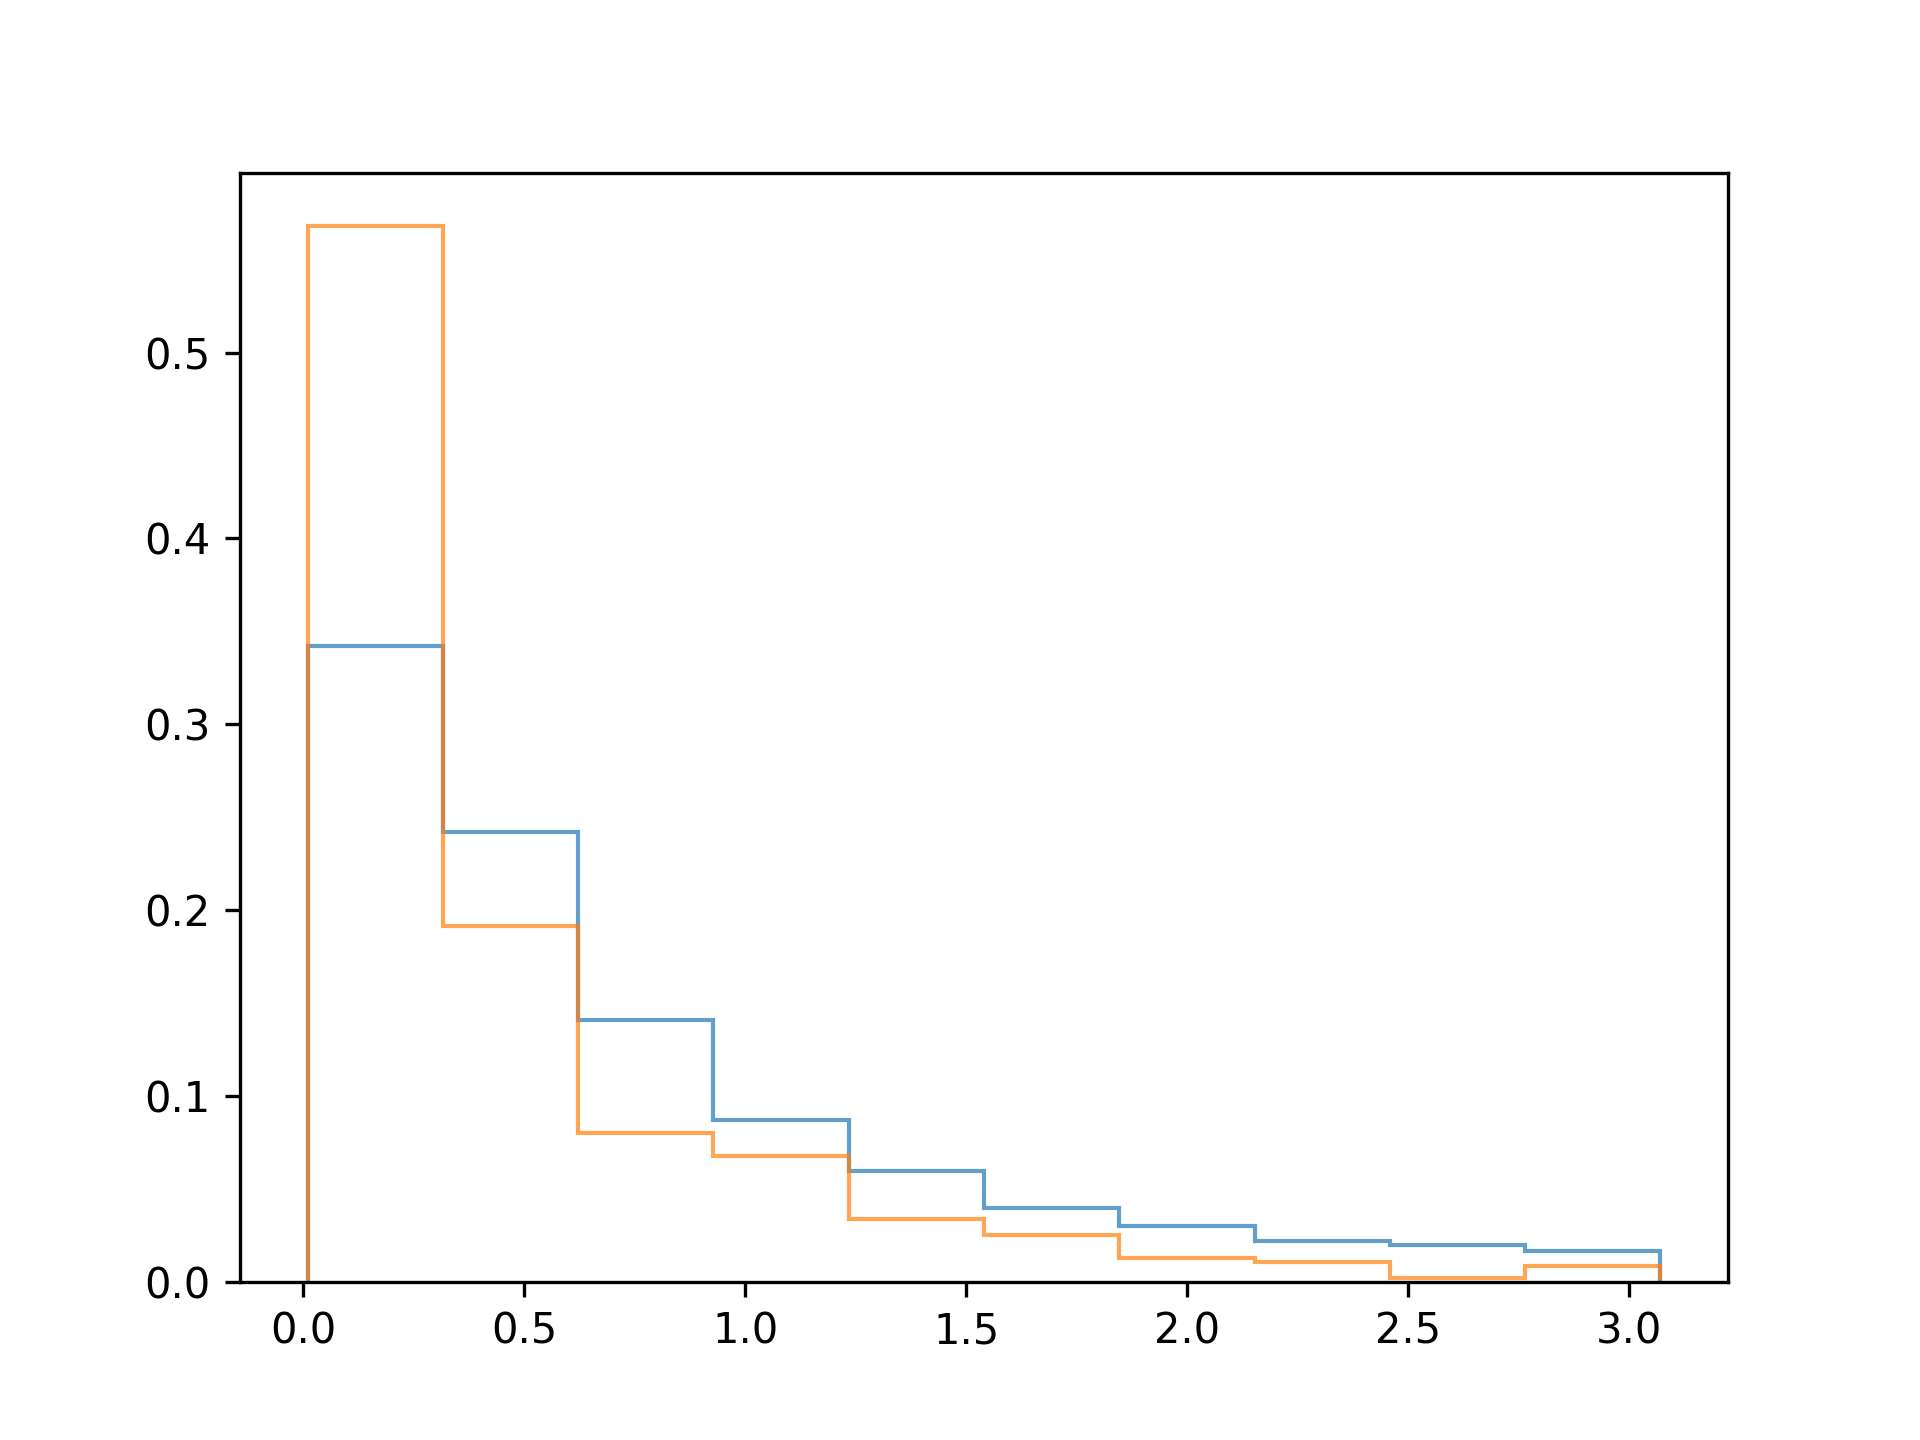
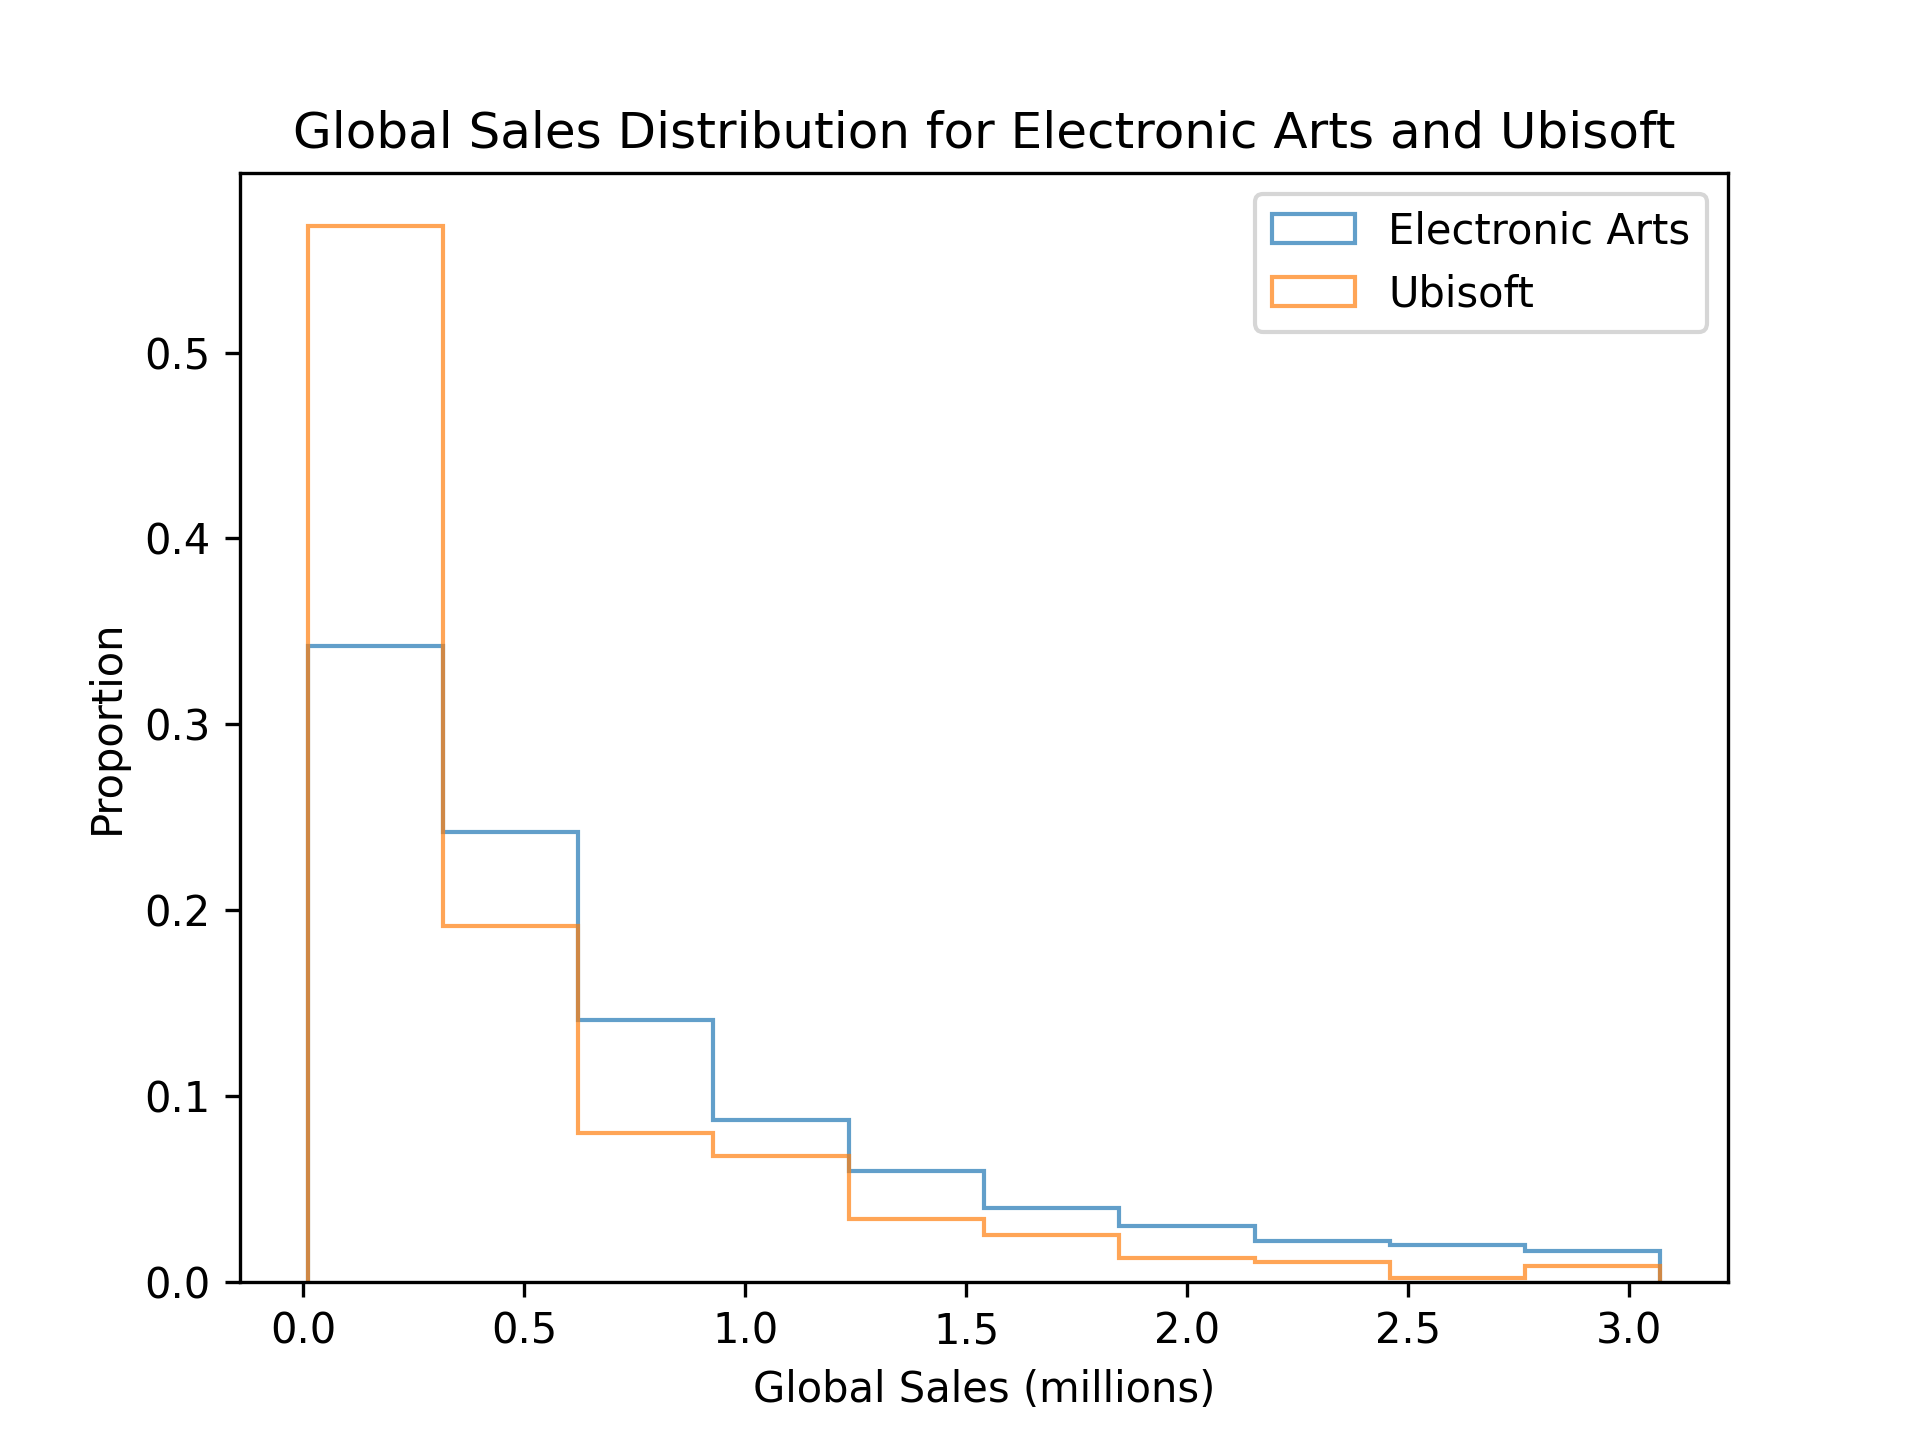
fix: change hidden functions to a more general one add: axis names, plot title, legend add: tests for new plot elements

Changed region(s): [[0.1562, 0.0625, 0.875, 0.2188], [0.4062, 0.9375, 0.625, 0.9688], [0.0312, 0.4375, 0.0625, 0.5938]]

diff --git a/3_2_histograms_matplotlib/1_theory/8_hist_histtype/tests/test_task.py b/3_2_histograms_matplotlib/1_theory/8_hist_histtype/tests/test_task.py
@@ -5,13 +5,13 @@ import matplotlib.pyplot as plt
 import numpy as np
 import pandas as pd
 
-from test_framework import AxisTestMixin, HistTestMixin
+from test_framework import AxisTestMixin, HistTestMixin, LegendTestMixin, TitleTestMixin
 
-from data import filter_by_publisher_and_global_sales, get_max_sales, get_min_sales, preprocess, read
+from data import filter_by_publisher_and_global_sales, get_bins, preprocess, read
 from task import plot
 
 
-class PlotTestCase(HistTestMixin, AxisTestMixin):
+class PlotTestCase(HistTestMixin, AxisTestMixin, LegendTestMixin, TitleTestMixin):
     data: ClassVar[pd.DataFrame]
     fig: ClassVar[plt.Figure]
     bins: ClassVar[np.ndarray]
@@ -24,8 +24,7 @@ class PlotTestCase(HistTestMixin, AxisTestMixin):
         cls.data = data
         cls.fig = plot(data)
         cls.publishers = ["Electronic Arts", "Ubisoft"]
-        min_value, max_value = get_min_sales(data), get_max_sales(data)
-        cls.bins = np.linspace(min_value, max_value, num=11)
+        cls.bins = get_bins(data)
 
     def test_1_1_return_type(self):
         self.checkReturnType(self.fig, expected_type=plt.Figure)
@@ -39,17 +38,46 @@ class PlotTestCase(HistTestMixin, AxisTestMixin):
 
         self.checkNumberOfContainers(self.fig.axes[0], expected_number=0)
         self.checkNumberOfPatches(self.fig.axes[0], expected_number=2)
-        for patch_number, _ in enumerate(self.publishers):
+        for patch_number in range(len(self.publishers)):
             self.checkPatchType(self.fig.axes[0], expected_type=Polygon, patch_number=patch_number)
-            self.checkStepHistBins(self.fig.axes[0], expected_bins=self.bins.tolist(), patch_number=patch_number)
 
-    def test_2_1_bar_height(self):
+    def test_2_1_bar_bins(self):
+        for patch_number in range(len(self.publishers)):
+            self.checkBarBins(
+                self.fig.axes[0],
+                expected_bins=self.bins.tolist(),
+                container_number=patch_number,
+                histtype="step",
+            )
+
+    def test_2_2_bar_height(self):
         for patch_number, publisher in enumerate(self.publishers):
             filtered_data = filter_by_publisher_and_global_sales(self.data, publisher)
             weights = np.ones_like(filtered_data["global_sales"]) / filtered_data["global_sales"].shape[0]
             counts, _ = np.histogram(filtered_data["global_sales"], bins=self.bins, weights=weights)
-            self.checkStepHistHeights(self.fig.axes[0], expected_values=counts.tolist(), patch_number=patch_number)
+            self.checkBarHeights(
+                self.fig.axes[0],
+                expected_values=counts.tolist(),
+                container_number=patch_number,
+                histtype="step",
+            )
 
-    def test_2_2_bar_transparency(self):
-        for patch_number, _ in enumerate(self.publishers):
-            self.checkStepHistTransparency(self.fig.axes[0], expected_alpha=0.7, patch_number=patch_number)
+    def test_2_3_bar_transparency(self):
+        for patch_number in range(len(self.publishers)):
+            self.checkBarTransparency(
+                self.fig.axes[0],
+                expected_alpha=0.7,
+                container_number=patch_number,
+                histtype="step",
+            )
+
+    def test_2_4_bar_legend(self):
+        self.checkLegendExists(self.fig.axes[0])
+        self.checkLegendLabels(self.fig.axes[0], expected_labels=self.publishers)
+
+    def test_3_labels(self):
+        self.checkLabel(self.fig.axes[0], expected_label="Global Sales (millions)", axis="x")
+        self.checkLabel(self.fig.axes[0], expected_label="Proportion", axis="y")
+
+    def test_4_title(self):
+        self.checkTitle(self.fig.axes[0], expected_title="Global Sales Distribution for Electronic Arts and Ubisoft")

diff --git a/3_2_histograms_matplotlib/1_theory/8_hist_histtype/task.md b/3_2_histograms_matplotlib/1_theory/8_hist_histtype/task.md
@@ -4,6 +4,7 @@ Our histogram now looks better, but there are still some refinements we can make
 
 1. Ensure equal bins for both distributions – This allows for a more accurate comparison.
 2. Improve visual clarity by adjusting the `histtype` parameter in the `hist` function.
+3. Add axis labels, legend and a title to the plot.
 
 By default, `histtype` is set to `'bar'`, which fills the bars with color. However, we can change it to `'step'`, which
 draws a line connecting the tops of the bars while leaving the area unfilled. This creates a cleaner and more
@@ -12,20 +13,36 @@ visually appealing distribution.
 ## Task
 
 Modify the histogram as follows:
-- Set `histtype` to `'step'` to create an unfilled line-based histogram.
-- Generate the same bins collection for both distributions. There should be `10` uniform bins, starting from the minimum global sales value (across both publishers) and ending at the maximum value.
 
-You can retrieve the minimum and maximum values using the `get_min_sales` and `get_max_sales` functions.
+- Set `histtype` to `'step'` to create an unfilled line-based histogram.
+- Generate the same bins collection for both distributions. There should be `10` uniform bins, starting from the minimum
+  global sales value (across both publishers) and ending at the maximum value.
+- Name x-axis as `'Global Sales (millions)'`, y-axis as `'Proportion'`.
+- Add a title to the plot: `'Global Sales Distribution for Electronic Arts and Ubisoft'`.
+- Add a legend to the plot, with labels corresponding to the publishers.
+
+You can add legend for a histogram in the same way as for a bar chart. We described it in details in
+the "[Legend](course://2_2_bar_and_pie_charts_matplotlib/1_theory/10_grouped_bar_chart_legend)" section. See more details in the corresponding hint below.
+
+Use the hidden `get_bins` function to generate bins collection. Pass the unfiltered dataset as an argument!
 
 If you want, you can find these values manually. Please refer to the corresponding hint below.
 
 ## Hints
 
-<div class="hint" title="How can I get minimum and maximum sales for the publishers?">
-    First, filter the dataset to include only global sales data for <code>Electronic Arts</code> and <code>Ubisoft</code> below 95th percentile. 
-    Then, extract the minimum and maximum values from the <code>global_sales</code> column using the 
+<div class="hint" title="How to add a legend with labels to the plot?">
+    First, pass the <code>label</code> parameter to the <code>hist</code> function for each dataset. 
+    Then, call the <a href="https://matplotlib.org/stable/api/_as_gen/matplotlib.axes.Axes.legend.html"><code>ax.legend()</code></a> function to display the legend.
+</div>
+
+<div class="hint" title="How can I generate the bins collection for both distributions?">
+    Extract the minimum and maximum values from the <code>global_sales</code> column of the filtered dataset using the 
     <a href="https://numpy.org/doc/stable/reference/generated/numpy.min.html#numpy.min"><code>min</code></a> and 
     <a href="https://numpy.org/doc/stable/reference/generated/numpy.max.html#numpy.max"><code>max</code></a> functions.
+    Please do not forget that you need to find these values among both publishers.
+    Then, use the <a href="https://numpy.org/doc/stable/reference/generated/numpy.linspace.html">
+    <code>np.linspace</code></a> function to generate a collection of <code>10</code> uniform bins. Similarly to the
+    <code>np.logspace</code> it accepts 3 main parameters: <code>start</code>, <code>stop</code>, and <code>num</code>.
 </div>
 
 <div class="hint" title="What should the figure look like?">
